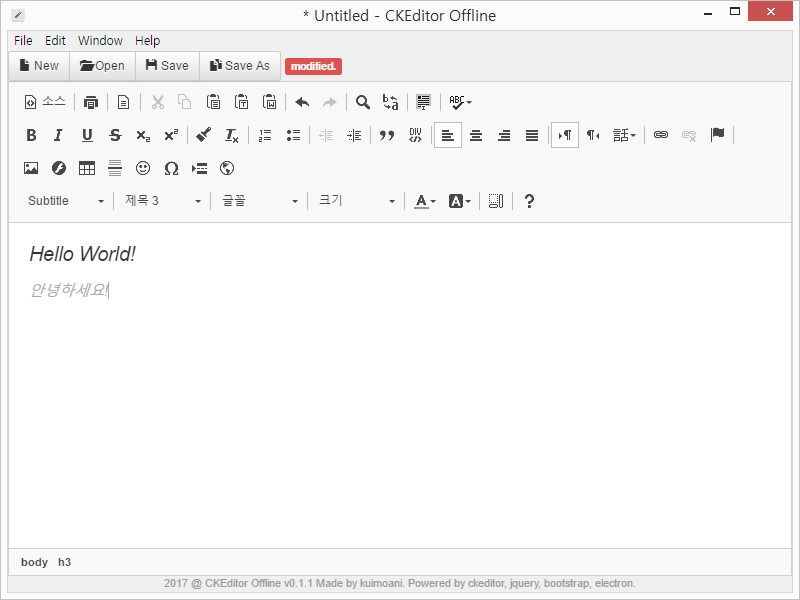
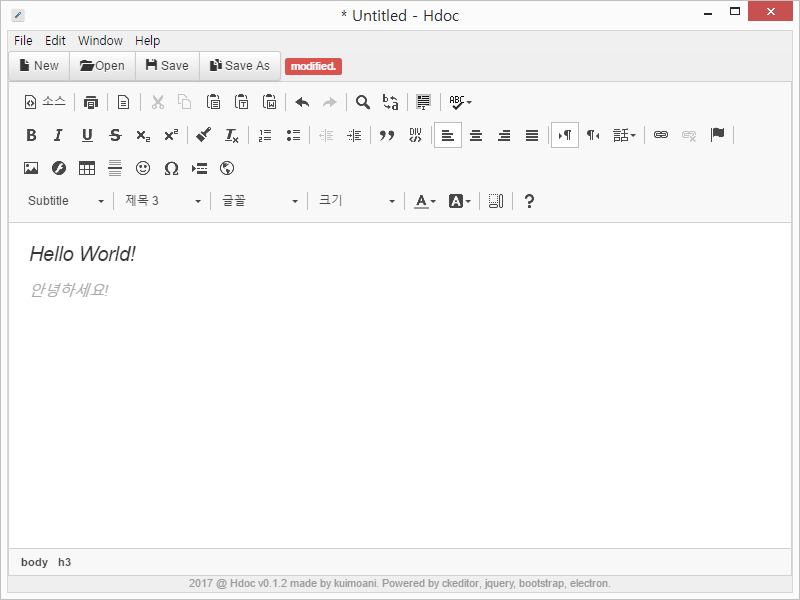
- build script 수정 - electron-package 8.7.1 버전에 맞게 수정 - editor change event 문제 때문에 setTimeout 쓴 코드 정리 - beforeunload 에서 return false(cancel)가 잘 되지 않는 버그로 인해 Atom이나 VSCode처럼 temp 저장방식으로 개선하기 -> win.close 이벤트에서 dialog 띄우는 방식으로 해결 - Control+S 단축키로 저장했을 경우 "saved." 표시가 안되고 "modified."로 표시되는 문제 해결하기 (chec

Changed region(s): [[0.1875, 0.96, 0.7812, 0.99], [0.375, 0.0, 0.625, 0.06]]

diff --git a/index.html b/index.html
@@ -3,7 +3,7 @@
     <head>
         <meta charset="utf-8">
         <!--<meta http-equiv="Content-Security-Policy" content="default-src *; script-src 'self'; style-src 'self' 'unsafe-inline';">-->
-        <title>CKEditor Offline</title>
+        <title>Hdoc</title>
         <script src="ckeditor/ckeditor.js"></script>
         <script>window.$ = window.jQuery = require('jquery');</script>
         <link rel="stylesheet" href="bootstrap/css/bootstrap.min.css">
@@ -28,9 +28,9 @@
         <div id="bottombar" style="cursor:default; user-select: none; text-align: center; font-size:8pt; color:#999999;">
             2017 @ 
             <script>
-                document.write("CKEditor Offline v" + require('./package.json').version);
+                document.write("Hdoc v" + require('./package.json').version);
             </script> 
-            Made by kuimoani. Powered by ckeditor, jquery, bootstrap, electron.
+            made by kuimoani. Powered by ckeditor, jquery, bootstrap, electron.
         </div>
     </body>
     <script>
@@ -48,30 +48,33 @@
         });
 
         //unload  창 닫을때는 electron 버그로인해 dialog를 움직인 후 no, cancle 누르면 그냥 quit으로 넘어가버림..
-        //$(window).bind("beforeunload", function(event){
+        //alert,confirm이 blocking이 아닌것 같음.. preventDefault()를 기본으로 하고 응답후에 처리하는거로 하니 잘 됨
+        //confirm 창 잘 안됨... dialog.showMessageBox 으로 해야함
+        //$(window).on("beforeunload", function(event){
         window.onbeforeunload = (event) => {
             if(isModified()) {
-                //if(confirm("Are you sure you want to leave? All data will be lost!") == false) {
-                //  event.returnValue = false;
-                //}
-                let choice = dialog.showMessageBox(
+                event.preventDefault() // Prevents the window from closing 
+                event.returnValue = false;
+
+                dialog.showMessageBox(
                     app.getCurrentWindow(),
                     {
                         type: 'warning',
-                        buttons: ['Yes', 'No', 'Cancel'],
+                        buttons: ['Yes', 'No'],
                         defaultId: 2,
                         cancelId: 2,
                         title: 'Confirm',
-                        message: 'The file is not saved.\n Are you sure you want to quit?'
-                    });
-                if(choice !== 0){
-                    event.returnValue = false;
-                    event.preventDefault();
-                    return false;
-                }
+                        message: 'The file is not saved. Are you sure you want to quit?'
+                    }, function(res){
+                        if (res === 0) {
+                            editor.resetDirty();
+                            app.getCurrentWindow().close();
+                        }
+                    }
+                );
             }
         }
-        
+
         // auto resize
         $(window).on("resize", function(){
             editor.resize('100%', window.innerHeight - $("#topbar").height() - $("#bottombar").height() - 1);
@@ -79,22 +82,23 @@
 
         //new
         $("#btnNew").click(function(){
-            if(isModified() && confirm("The file is not saved.\n Are you sure you want to clear?") == false) {
+            if(isModified() && confirm("The file is not saved. Are you sure you want to clear?") == false) {
                 return false;
             }
 
-            editor.setData("");
-            
-            setTimeout(function(){ //editor change 이벤트 때문에 delay 처리
-                filepath = null;
-                document.title = "Untitled - CKEditor Offline";
-                showMessage("New.");
-            }, 100);
+            editor.setData('', {
+                callback: function () {
+                    filepath = null;
+                    document.title = "Untitled - Hdoc";
+                    showMessage("New.");
+                    editor.resetDirty();
+                }
+            });
         });
 
         //open
         $("#btnOpen").click(function(){
-            if(isModified() && confirm("The file is not saved.\n Are you sure you want to open?") == false) {
+            if(isModified() && confirm("The file is not saved. Are you sure you want to open?") == false) {
                 return false;
             }
 
@@ -124,12 +128,15 @@
                 }
 
                 // Change how to handle the file content
-                editor.setData(data);
-                setTimeout(function(){ //editor change 이벤트 때문에 delay 처리
-                    filepath = filename;
-                    document.title = filepath + " - CKEditor Offline ";
-                    showMessage("Opened.");
-                }, 100);
+                editor.setData(data, {
+                    callback: function () {
+                        filepath = filename;
+                        document.title = filepath + " - Hdoc";
+                        showMessage("Opened.");
+                        editor.resetDirty();
+                    }
+                });
+
             });
         }
 
@@ -153,9 +160,10 @@
                     }
 
                     filepath = fileName;                        
-                    document.title = filepath + " - CKEditor Offline ";
-                    showMessage("Saved.");
+                    document.title = filepath + " - Hdoc";
                     document.title = document.title.replace("* ", "");
+                    editor.resetDirty();
+                    showMessage("Saved.");
                 });
             }); 
         });
@@ -172,17 +180,24 @@
                         return;
                     }
 
-                    showMessage("Saved.");
                     document.title = document.title.replace("* ", "");
+                    editor.resetDirty();
+                    showMessage("Saved.");
                 });
             }
         });
 
-        //check text changed
+        //check text changed (첫번째 편집이 인식 안하는 경우 있음)... 
+        //성능문제로 가끔 오작동이 있다고함 http://docs.ckeditor.com/#!/api/CKEDITOR.editor-event-change
         editor.on("change", function () {
-            if(isModified() == false) {
+            if(isModified() == true && $("#label_msg").text() != "modified.") {
                 showMessage("modified.", "label-danger");
                 document.title = "* " + document.title;
+            }
+            //편집한거 다시 원상복구 했을 경우
+            else if(isModified() == false && $("#label_msg").text() != "reverted.") {
+                showMessage("reverted.", "label-info");
+                document.title = document.title.replace("* ", "");
             }
         });
 
@@ -190,6 +205,8 @@
         function showMessage(msg, label_cls = "label-success")
         {
             $("#label_msg")
+                //.clearQueue()
+                //.stop()
                 .hide()
                 .removeClass("label-default").removeClass("label-primary").removeClass("label-success").removeClass("label-info").removeClass("label-warning").removeClass("label-danger")
                 .addClass(label_cls)
@@ -202,17 +219,24 @@
             ev.preventDefault()
         }
         document.body.ondrop = (ev) => {
-            openfile(ev.dataTransfer.files[0].path)
-            ev.preventDefault()
+            if(isModified() && confirm("The file is not saved. Are you sure you want to open?") == false) {
+                return false;
+            }
+            openfile(ev.dataTransfer.files[0].path);
+            ev.preventDefault();
         }
         editor.on("drop", function(evt){
+            if(isModified() && confirm("The file is not saved. Are you sure you want to open?") == false) {
+                return false;
+            }
             openfile(evt.data.dataTransfer.$.files[0].path);
         });
 
         //is modified
         function isModified()
         {
-            return $("#label_msg").text() == "modified.";
+            //return $("#label_msg").text() == "modified.";
+            return editor.checkDirty();
         }
 
         //windows menu

diff --git a/main.js b/main.js
@@ -10,7 +10,7 @@ function createWindow () {
   // Create the browser window.
   win = new BrowserWindow({
     width: 800, height: 600,
-    title: "CKEditor Offline",
+    title: "Hdoc",
     webPreferences: {
       backgroundThrottling: false
     },
@@ -57,8 +57,6 @@ app.on('activate', () => {
     createWindow()
   }
 })
-
-
 
 // In this file you can include the rest of your app's specific main process
 // code. You can also put them in separate files and require them here.
@@ -134,8 +132,8 @@ const template = [
     role: 'help',
     submenu: [
       {
-        label: 'About',
-        click () { require('electron').shell.openExternal('https://electron.atom.io') }
+        label: 'About Hdoc',
+        click () { require('electron').shell.openExternal('https://github.com/kuimoani/CKEditorOffline') }
       }
     ]
   }

diff --git a/CHANGELOG.md b/CHANGELOG.md
@@ -6,11 +6,21 @@ and this project adheres to [Semantic Versioning](http://semver.org/).
 
 ## [Unreleased]
 ### Added
+- Image Embeded Save 기능 추가
 
 ### Changed
-- Drag&Drop으로 파일오픈시 저장되지 않은 문서 있을 경우 Confirm 창 띄우기
-- beforeunload 에서 return false(cancel)가 잘 되지 않는 버그로 인해 Atom이나 VSCode처럼 temp 저장방식으로 개선하기
+
+
+## [0.1.2] - 2017-06-22
+### Added
+
+### Changed
+- build script 수정 - electron-package 8.7.1 버전에 맞게 수정
+- editor change event 문제 때문에 setTimeout 쓴 코드 정리
+- beforeunload 에서 return false(cancel)가 잘 되지 않는 버그로 인해 Atom이나 VSCode처럼 temp 저장방식으로 개선하기 -> win.close 이벤트에서 dialog 띄우는 방식으로 해결
 - Control+S 단축키로 저장했을 경우 "saved." 표시가 안되고 "modified."로 표시되는 문제 해결하기 (checkDirty() 활용?)
+- Drag&Drop으로 파일오픈시 저장되지 않은 문서 있을 경우 Confirm 창 띄우기
+- CKEditor -> HDoc 으로 이름 전환
 
 ## [0.1.1] - 2017-06-04
 ### Added
@@ -37,16 +47,3 @@ and this project adheres to [Semantic Versioning](http://semver.org/).
 
 ### Changed
 - bootstrap local install
-
-
-[Unreleased]: https://github.com/olivierlacan/keep-a-changelog/compare/v0.3.0...HEAD
-[0.3.0]: https://github.com/olivierlacan/keep-a-changelog/compare/v0.2.0...v0.3.0
-[0.2.0]: https://github.com/olivierlacan/keep-a-changelog/compare/v0.1.0...v0.2.0
-[0.1.0]: https://github.com/olivierlacan/keep-a-changelog/compare/v0.0.8...v0.1.0
-[0.0.8]: https://github.com/olivierlacan/keep-a-changelog/compare/v0.0.7...v0.0.8
-[0.0.7]: https://github.com/olivierlacan/keep-a-changelog/compare/v0.0.6...v0.0.7
-[0.0.6]: https://github.com/olivierlacan/keep-a-changelog/compare/v0.0.5...v0.0.6
-[0.0.5]: https://github.com/olivierlacan/keep-a-changelog/compare/v0.0.4...v0.0.5
-[0.0.4]: https://github.com/olivierlacan/keep-a-changelog/compare/v0.0.3...v0.0.4
-[0.0.3]: https://github.com/olivierlacan/keep-a-changelog/compare/v0.0.2...v0.0.3
-[0.0.2]: https://github.com/olivierlacan/keep-a-changelog/compare/v0.0.1...v0.0.2

diff --git a/README.md b/README.md
@@ -1,2 +1,9 @@
-# CKEditorOffline
-CKEditor Offline Application
+# Hdoc
+Offline HTML Wordprocessor
+- Offline WYSIWYG HTML Editor
+- Electron based
+- CKEditor
+- Bootstrap
+
+![](screenshot.png)
+
